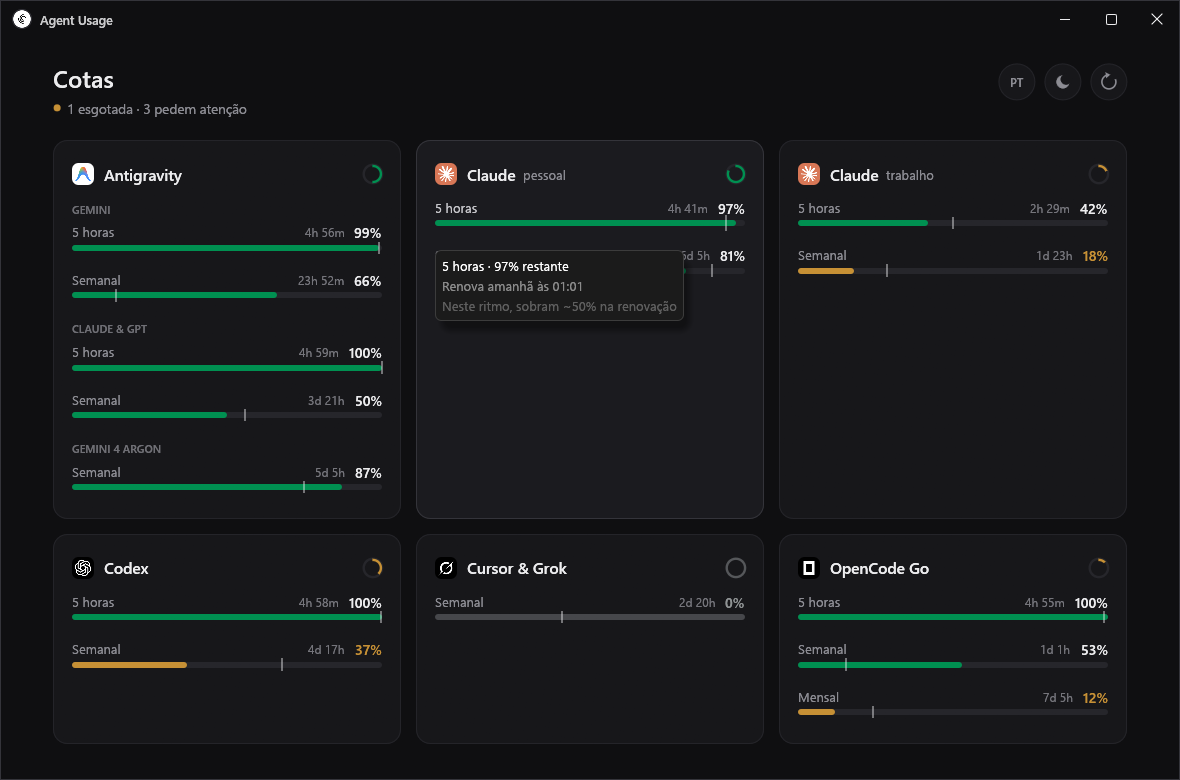
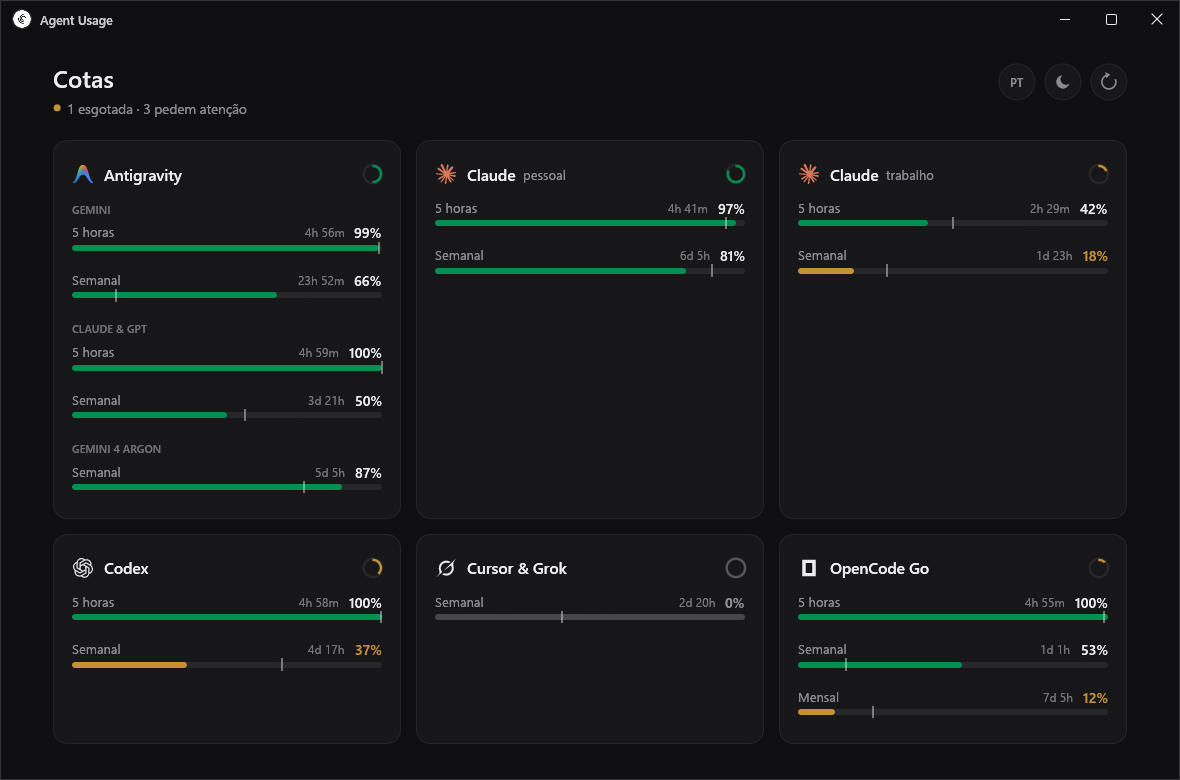
Use SVG provider marks and drop Claude extra-usage row

diff --git a/src/icons.rs b/src/icons.rs
@@ -1,63 +1,71 @@
-//! Provider and app icons, decoded once into GPU textures.
+//! Provider marks (SVG, rasterized by egui at the exact on-screen size so they stay sharp) and
+//! the app icon. Single-color marks are stored white and tinted with the text color.
 
 use crate::model::Provider;
-use eframe::egui::{self, Color32, ColorImage, Rect, TextureHandle, TextureOptions, Ui};
-use image::imageops::FilterType;
-
-pub struct Icons {
-    pub app: TextureHandle,
-    antigravity: TextureHandle,
-    claude: TextureHandle,
-    codex: TextureHandle,
-    cursor: TextureHandle,
-    opencode: TextureHandle,
-}
+use eframe::egui::{
+    self, Color32, ColorImage, ImageSource, Rect, TextureHandle, TextureOptions, Ui, load::Bytes,
+};
 
 pub const APP_ICON: &[u8] = include_bytes!(concat!(env!("OUT_DIR"), "/icon-round.png"));
 
-fn texture(ctx: &egui::Context, name: &str, bytes: &[u8], size: u32) -> TextureHandle {
-    let rgba = image::load_from_memory(bytes)
-        .map(|i| i.resize_exact(size, size, FilterType::Triangle).to_rgba8())
-        .unwrap_or_else(|_| image::RgbaImage::new(size, size));
-    let img = ColorImage::from_rgba_unmultiplied(
-        [rgba.width() as usize, rgba.height() as usize],
-        rgba.as_raw(),
-    );
-    ctx.load_texture(name, img, TextureOptions::LINEAR)
+pub struct Icons {
+    pub app: TextureHandle,
 }
 
 impl Icons {
     pub fn load(ctx: &egui::Context) -> Self {
-        let t = |name: &str, bytes: &[u8]| texture(ctx, name, bytes, 96);
+        egui_extras::install_image_loaders(ctx);
+        let rgba = image::load_from_memory(APP_ICON)
+            .map(|i| {
+                i.resize_exact(64, 64, image::imageops::FilterType::Lanczos3)
+                    .to_rgba8()
+            })
+            .unwrap_or_else(|_| image::RgbaImage::new(64, 64));
+        let img = ColorImage::from_rgba_unmultiplied(
+            [rgba.width() as usize, rgba.height() as usize],
+            rgba.as_raw(),
+        );
         Self {
-            app: t("app", APP_ICON),
-            antigravity: t(
-                "antigravity",
-                include_bytes!("../assets/providers/antigravity.webp"),
-            ),
-            claude: t("claude", include_bytes!("../assets/providers/claude.webp")),
-            codex: t("codex", include_bytes!("../assets/providers/chatgpt.webp")),
-            // Cursor and Grok share one card; Grok's mark stands for the pair.
-            cursor: t("cursor", include_bytes!("../assets/providers/grok.webp")),
-            opencode: t(
-                "opencode",
-                include_bytes!("../assets/providers/opencode.webp"),
-            ),
-        }
-    }
-
-    pub fn provider(&self, p: Provider) -> &TextureHandle {
-        match p {
-            Provider::Antigravity => &self.antigravity,
-            Provider::Claude => &self.claude,
-            Provider::Codex => &self.codex,
-            Provider::Cursor => &self.cursor,
-            Provider::OpenCode => &self.opencode,
+            app: ctx.load_texture("app", img, TextureOptions::LINEAR),
         }
     }
 }
 
-/// Paint a square icon tile with rounded corners, faded by `alpha`.
+macro_rules! svg {
+    ($name:literal) => {
+        ImageSource::Bytes {
+            uri: concat!("bytes://", $name, ".svg").into(),
+            bytes: Bytes::Static(include_bytes!(concat!(
+                "../assets/providers/",
+                $name,
+                ".svg"
+            ))),
+        }
+    };
+}
+
+/// The mark and whether it is single-color (to be tinted).
+fn source(p: Provider) -> (ImageSource<'static>, bool) {
+    match p {
+        Provider::Antigravity => (svg!("antigravity"), false),
+        Provider::Claude => (svg!("claude"), false),
+        Provider::Codex => (svg!("openai"), true),
+        // Cursor and Grok share one card; Grok's mark stands for the pair.
+        Provider::Cursor => (svg!("grok"), true),
+        Provider::OpenCode => (svg!("opencode"), true),
+    }
+}
+
+/// Paint a provider mark in `rect`, faded by `alpha`; single-color marks take `ink`.
+pub fn paint_provider(ui: &Ui, p: Provider, rect: Rect, ink: Color32, alpha: f32) {
+    let (src, mono) = source(p);
+    let tint = if mono { ink } else { Color32::WHITE };
+    egui::Image::new(src)
+        .tint(tint.gamma_multiply(alpha))
+        .paint_at(ui, rect);
+}
+
+/// Paint a texture with rounded corners, faded by `alpha`.
 pub fn paint(ui: &Ui, tex: &TextureHandle, rect: Rect, radius: f32, alpha: f32) {
     egui::Image::new((tex.id(), rect.size()))
         .corner_radius(radius)

diff --git a/src/ui.rs b/src/ui.rs
@@ -3,7 +3,7 @@
 
 use crate::anim::{Tweens, ease_in_out, ease_out_cubic};
 use crate::i18n::Lang;
-use crate::icons::{self, Icons};
+use crate::icons;
 use crate::model::{Account, Reading, Status, Window};
 use crate::prefs::ThemeMode;
 use crate::theme::{Palette, SEMIBOLD};
@@ -23,7 +23,6 @@ pub struct Frame<'a> {
     pub now: DateTime<Utc>,
     pub lang: Lang,
     pub theme: ThemeMode,
-    pub icons: &'a Icons,
 }
 
 /// What the user asked for this frame.
@@ -365,11 +364,11 @@ impl Dashboard {
         let inner = rect.shrink(m.pad);
         let hy = inner.top() + m.head / 2.0;
         let icon = Rect::from_min_size(pos2(inner.left(), hy - 11.0), vec2(22.0, 22.0));
-        icons::paint(
+        icons::paint_provider(
             ui,
-            f.icons.provider(acc.provider),
-            icon,
-            6.0,
+            acc.provider,
+            icon.shrink(1.0),
+            pal.text,
             if unavailable { a * 0.5 } else { a },
         );
         let title_font = FontId::new(15.5, FontFamily::Name(SEMIBOLD.into()));

diff --git a/src/providers/claude.rs b/src/providers/claude.rs
@@ -111,14 +111,6 @@ fn fetch(dir: &Path) -> Result<Fetched, String> {
     add("five_hour", "5 horas", 300);
     add("seven_day", "Semanal", 10_080);
 
-    if let Some(extra) = body
-        .get("extra_usage")
-        .filter(|e| e.get("is_enabled").and_then(Value::as_bool) == Some(true))
-        && let Some(used) = extra.get("utilization").and_then(Value::as_f64)
-    {
-        windows.push(Window::new("Gasto mensal", 1.0 - used as f32 / 100.0));
-    }
-
     if windows.is_empty() {
         return Err("sem limites informados".into());
     }

diff --git a/src/main.rs b/src/main.rs
@@ -162,7 +162,6 @@ impl eframe::App for App {
             now,
             lang: self.prefs.lang,
             theme: self.prefs.theme,
-            icons: &self.icons,
         };
         let act = self.dash.show(&mut body_ui, &pal, f);
         chrome::frame_edges(ui, &pal, full);

diff --git a/src/i18n.rs b/src/i18n.rs
@@ -19,7 +19,6 @@ const DATA: &[(&str, &str)] = &[
     ("curta", "short"),
     ("ciclo", "cycle"),
     ("limite", "limit"),
-    ("gasto mensal", "monthly spend"),
     ("agy falhou", "agy failed"),
     (
         "agy não conseguiu ler a cota",
